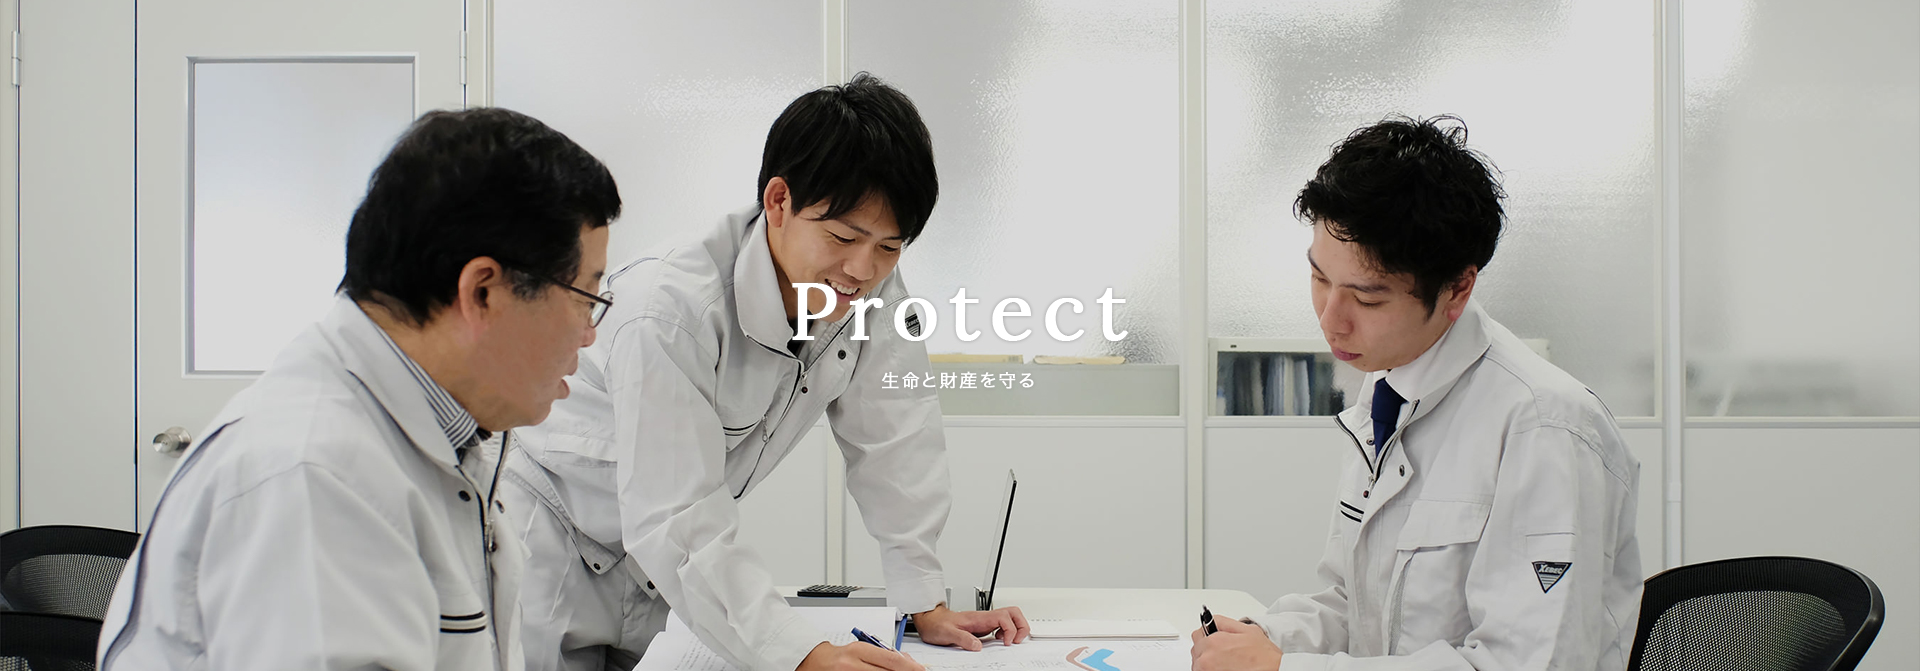
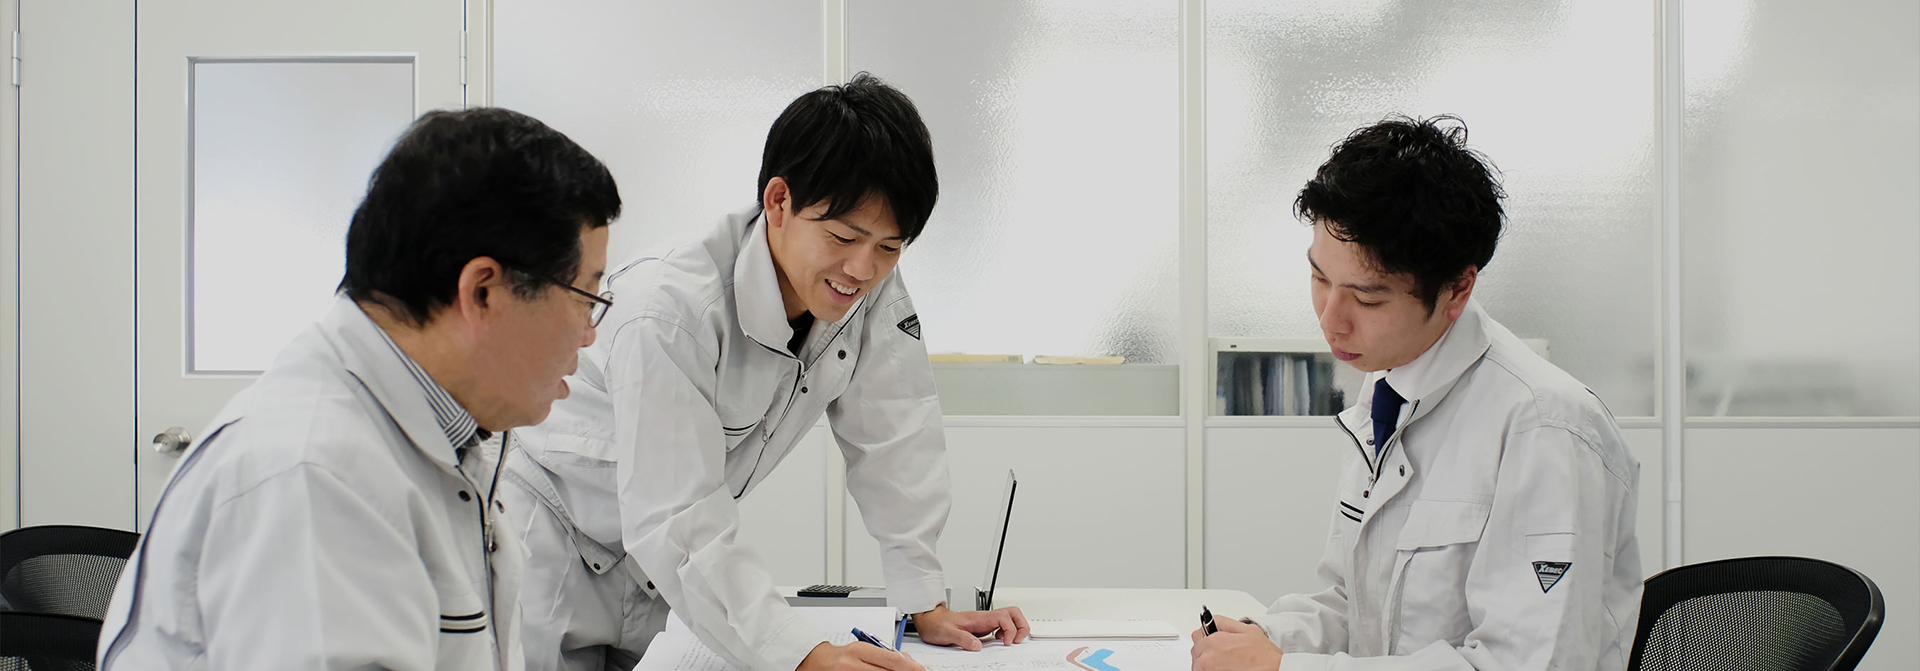
update mainvisual

Changed region(s): [[0.4062, 0.4173, 0.5938, 0.5067], [0.4688, 0.5365, 0.5312, 0.5961]]

diff --git a/src/_scss/2_component/_01_mainvisual.scss b/src/_scss/2_component/_01_mainvisual.scss
@@ -70,16 +70,20 @@ btn
     background-color: #000;
   }
   .c-mainvisual__slide {
+    height: 671px;
+    width: 100%;
+    background-size: cover;
+    background-position: center;
     @include tab {
-      img {
-        width: 100%;
-      }
+    }
+    @include sp {
+      height: 389px;
     }
   }
   .slick-dots {
     display: flex;
     justify-content: center;
-    align-items: center;  
+    align-items: center;
     flex-direction: column;
     position: absolute;
     right: 0;
@@ -151,7 +155,7 @@ btn
     padding: 2px 6px;
     line-height: 1.1;
     cursor: pointer;
-    &:hover{
+    &:hover {
       opacity: 0.7;
       transition: 0.4s;
     }
@@ -173,7 +177,7 @@ btn
   .c-mainvisual__content {
     margin-left: 19px;
     letter-spacing: 2px;
-    h1{
+    h1 {
       font-size: 1.5rem;
       font-weight: 300;
     }
@@ -202,7 +206,7 @@ btn
     font-size: 1.3rem;
     position: relative;
     letter-spacing: 1px;
-    &::before{
+    &::before {
       content: "";
       background: #eee;
       opacity: 0.4;
@@ -212,7 +216,7 @@ btn
       top: -6px;
       left: 2px;
     }
-    &:hover{
+    &:hover {
       cursor: pointer;
       opacity: 0.7;
       transition: 0.4s;
@@ -225,7 +229,7 @@ btn
       padding-top: 11px;
       margin-left: 0;
       border-top: 1px solid #ccc;
-      &::before{
+      &::before {
         display: none;
       }
     }
@@ -249,10 +253,124 @@ btn
     position: absolute;
     left: 50%;
     top: 50%;
-    transform: translate(-50%, -50%);
+    transform: translate(-50%, -58.9%);
+    @include sp {
+      transform: translate(-50%, -50%);
+      top: 49.3%;
+    }
+  }
+  .c-mainvisual__bigtext {
+    font-size: 8rem;
+    letter-spacing: 11.2px;
     font-family: "Lora", serif;
-    p {
-      font-size: 1.8rem;
+    line-height: 1.45;
+    font-weight: 400;
+    @include tab {
+    }
+    @include sp {
+      font-size: 5rem;
+      letter-spacing: 4.7px;
+      line-height: 1.3;
+    }
+  }
+  .c-mainvisual__mainslidetext {
+    font-size: 8rem;
+    color: #fff;
+    position: absolute;
+    left: 50%;
+    top: 38%;
+    z-index: 1;
+    transform: translate(-50%, -50%);
+    @include sp {
+      top: 42.3%;
+    }
+  }
+  .c-mainvisual__smalltext {
+    font-size: 1.8rem;
+    text-align: center;
+    font-weight: 300;
+    letter-spacing: 1.4px;
+    @include sp {
+      font-size: 1.5rem;
+      letter-spacing: 1.6px;
+    }
+  }
+  .c-mainvisual__maintext {
+    font-size: 9rem;
+    letter-spacing: 9px;
+    font-family: "Lora", serif;
+    line-height: 0.48;
+    font-weight: 400;
+    @include sp {
+      font-size: 4.5rem;
+      letter-spacing: 4.5px;
+      text-align: center;
+    }
+  }
+  .c-mainvisual__small {
+    font-family: "Lora", serif;
+    font-weight: 400;
+    letter-spacing: 2px;
+    font-size: 2.8rem;
+    @include sp {
+      font-size: 1.4rem;
+    }
+  }
+  .c-mainvisual__subtext {
+    transform: translateX(5px);
+    @include sp {
+      transform: translateX(0);
+      line-height: 0.4;
+    }
+  }
+  .c-mainvisual__mainsmalltext {
+    letter-spacing: 1.2px;
+    transform: translateY(-9px);
+    font-size: 1.8rem;
+    font-weight: 300;
+    @include sp {
+      letter-spacing: 0.6px;
+      transform: translateY(10px);
+      font-size: 0.9rem;
+    }
+  }
+  .c-mainvisual__logo {
+    position: absolute;
+    top: 14.9%;
+    left: 50%;
+    transform: translateX(-50%);
+    @include tab {
+      width: 84.4%;
+      max-width: 650px;
+    }
+    @include sp {
+      width: 84.4%;
+      top: 24.3%;
+      max-width: 317px;
+    }
+  }
+  .c-mainvisual__slide1 {
+    background-image: url("../../assets/img/mv1.jpg");
+    @include tab {
+      background-image: url("../../assets/img/mv1-sp.jpg");
+    }
+  }
+  .c-mainvisual__slide2 {
+    background-image: url("../../assets/img/mv2.jpg");
+    @include tab {
+      background-image: url("../../assets/img/mv2-sp.jpg");
+    }
+  }
+  .c-mainvisual__slide3 {
+    background-image: url("../../assets/img/mv3.jpg");
+    @include tab {
+      background-image: url("../../assets/img/mv3-sp.jpg");
+    }
+  }
+  .c-mainvisual__slide4 {
+    background-image: url("../../assets/img/mv4.jpg");
+    @include tab {
+      background-image: url("../../assets/img/mv4-sp.jpg");
     }
   }
 }

diff --git a/src/_public/assets/js/main.js b/src/_public/assets/js/main.js
@@ -5,7 +5,7 @@ $(document).ready(function () {
     fade: true,
     speed: 1100,
     infinite: true,
-    autoplay: true,
+    autoplay: false,
     cssEase: "linear",
     arrows: false,
     dots: true,

diff --git a/src/_scss/0_base/_utility.scss b/src/_scss/0_base/_utility.scss
@@ -24,3 +24,6 @@
 .u-contactft{
     bottom: -39.35%;
 }
+.u-inline{
+    display: inline;
+}
